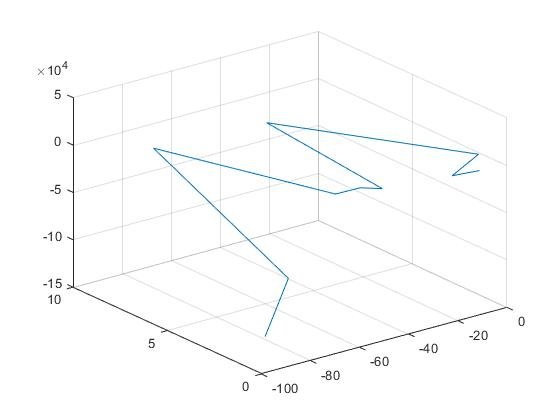
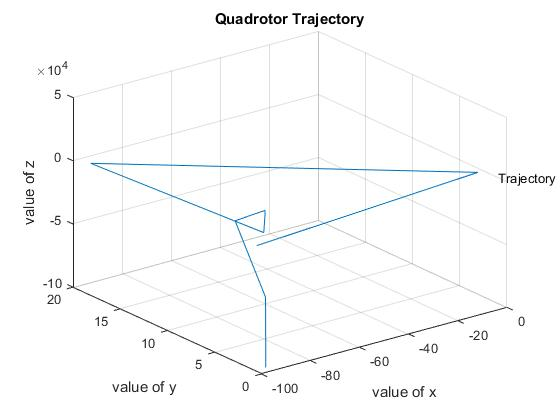
Add files via upload
final version commented

diff --git a/mdlDerivatives.m b/mdlDerivatives.m
@@ -5,24 +5,44 @@
 %=============================================================================
 
 function [sys pos f] = mdlDerivatives(t,x,u,jx,jy,jz,f)
-gg = [0 0 -9.81]';
+g = 9.81;
 LL = 0.2; % lenght between two motors
 % bb = 1;
 
-%psi =deg2rad(90);              % vanno calcolate in base le 4 F...
+             % the angles: pitch roll and yawl are
+%beeing calculated as written by trigonometrics at t=0
+
+%psi  
 psi = acos(LL/sqrt((f(3,1)-f(3,2))^2 +LL^2));
-%theta=deg2rad(60);
+%theta;
 theta = acos(LL/sqrt((f(3,1)-f(3,3))^2 +LL^2));
-%phi=deg2rad(30);
+%phi;
 phi= acos(LL/sqrt((f(3,1)-f(3,4))^2 +LL^2));
-g=9.81;
+
+
 
 % p=[0 0 0]'; % initial position vector
-v=[sum(f(3,:))*cos(psi) sum(f(3,:))*cos(theta) sum(f(3,:))*cos(phi)]'; % linear velocity        % vanno calcolate in base le 4 F...
+v=[sum(f(3,:))*cos(psi) sum(f(3,:))*cos(theta) sum(f(3,:))*cos(phi)]'; % linear velocity       
 % w=[diff(psi,t), diff(theta,t), diff(phi,t)]'; % angular velocity  d(angle)/dt
-w = [psi/t theta/t phi/t]';
+
+
+MAXITER = 10
+for t=1:MAXITER
+    
+    % computation of angles at t=1 an so on for obtain angular velocity
+    % with angle variation in dt.
+    
+psi_1 = acos(LL/sqrt((f(3,1)-f(3,2))^2 +LL^2));
+
+theta_1 = acos(LL/sqrt((f(3,1)-f(3,3))^2 +LL^2));
+
+phi_1= acos(LL/sqrt((f(3,1)-f(3,4))^2 +LL^2));
+
+w = [(psi_1-psi)/t (theta_1-theta)/t (phi_1-phi)/t]';
+end
+
 gamma =[0.2 0.1 0.1]'; % torques vector
-% f = 100  % it is the sum of four motor trusts
+
 m = 0.25; % quadrotor mass
 e3= [0 0 1]';
 
@@ -81,7 +101,9 @@ r_dot= w(1,1)*w(2,1)*((jx-jy)/jz) + gamma(3,1)/jz;
 
 % Component by component
 for i=1:4
-    f(:,i) = f(:,i)-D*ev+m*gg+R*f(:,i); % f with aerodynamics drag
+    f(:,i) = f(:,i)-D*ev+m*g+R*f(:,i); % f with aerodynamics drag
+    
+    
 end
 
 

diff --git a/main.m b/main.m
@@ -10,24 +10,27 @@ jz = 3.4
 f0 = zeros(3,4);
 
 % set each motor force
-temp = [10 10 10 10]; 
+temp = [50 30 10 30]; 
 
 for i=1:4
     f0(3,i) = temp(i); % 4 motor thrusts
 end
 t = 0
 % p=[0 0 0]'
-MAXITER = 10  % time sampling...seconds
+MAXITER = 10  % time sampling...seconds set the same in mdlDerivatives
 
 f=f0; % for first time
 temp = zeros(3,MAXITER);
+
 % Sampling the position of the quadrotor for integer time for 1 to MAXITER
-for t=1:1:MAXITER % t in seconds
+for t=1:1:MAXITER % t are integer seconds
     
 [sys,x0,str,ts] = mdlInitializeSizes(1);
+
 % [sys pos f0] = mdlDerivatives(t, x0, 13,jx,jy,jz,f0);
 [sys pos f] = mdlDerivatives(t, x0, 13,jx,jy,jz,f);
-% sys=mdlOutputs(1, x0, 13); 
+%sys=mdlOutputs(1, x0, 13); 
 temp(:,t) = pos;
 end
+
 mdlOutputs(temp);

diff --git a/mdlOutputs.m b/mdlOutputs.m
@@ -9,5 +9,12 @@ function mdlOutputs(sys)
 %sys=[];
 sys
 plot3(sys(1,:),sys(2,:),sys(3,:));
+xlabel('value of x')
+ylabel('value of y')
+zlabel('value of z')
+title('Quadrotor Trajectory')
+text(0,1, 'Trajectory')
+
+
 hold on;
 grid on;
